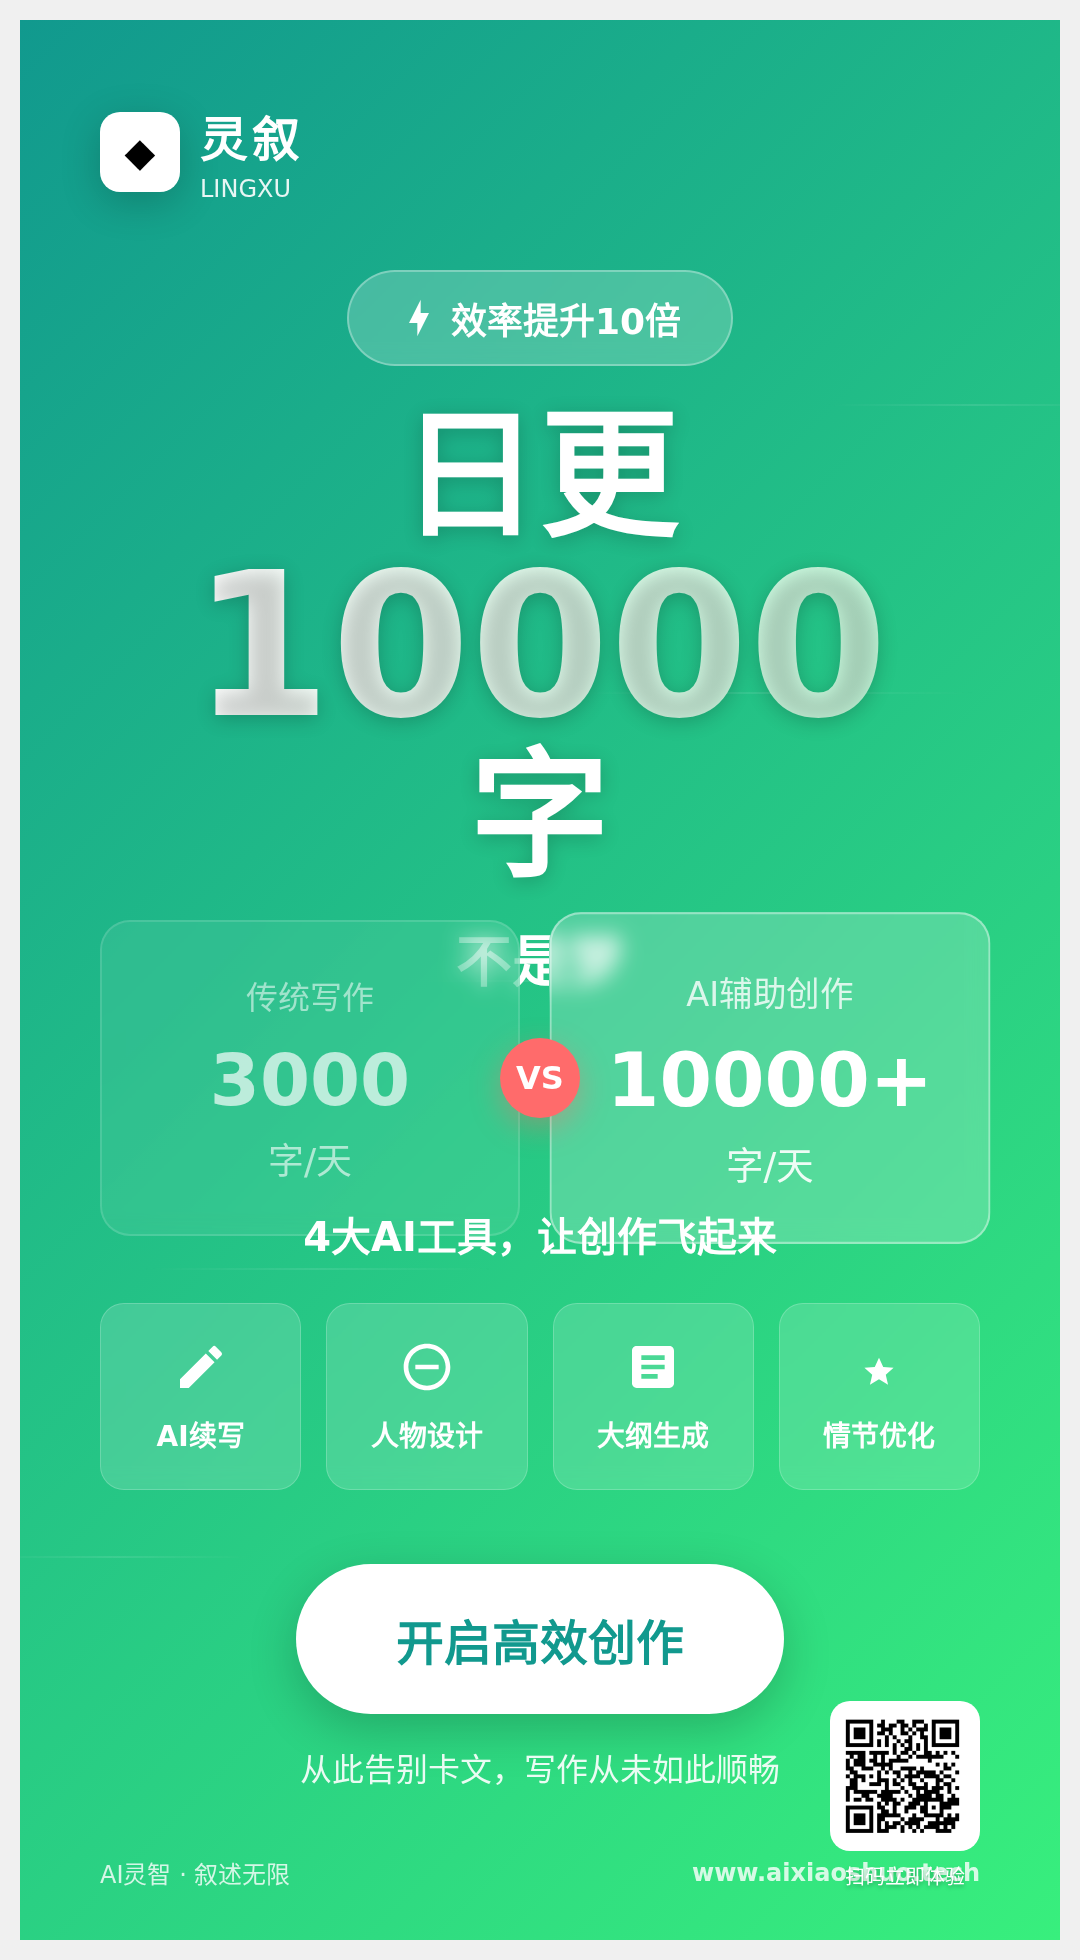
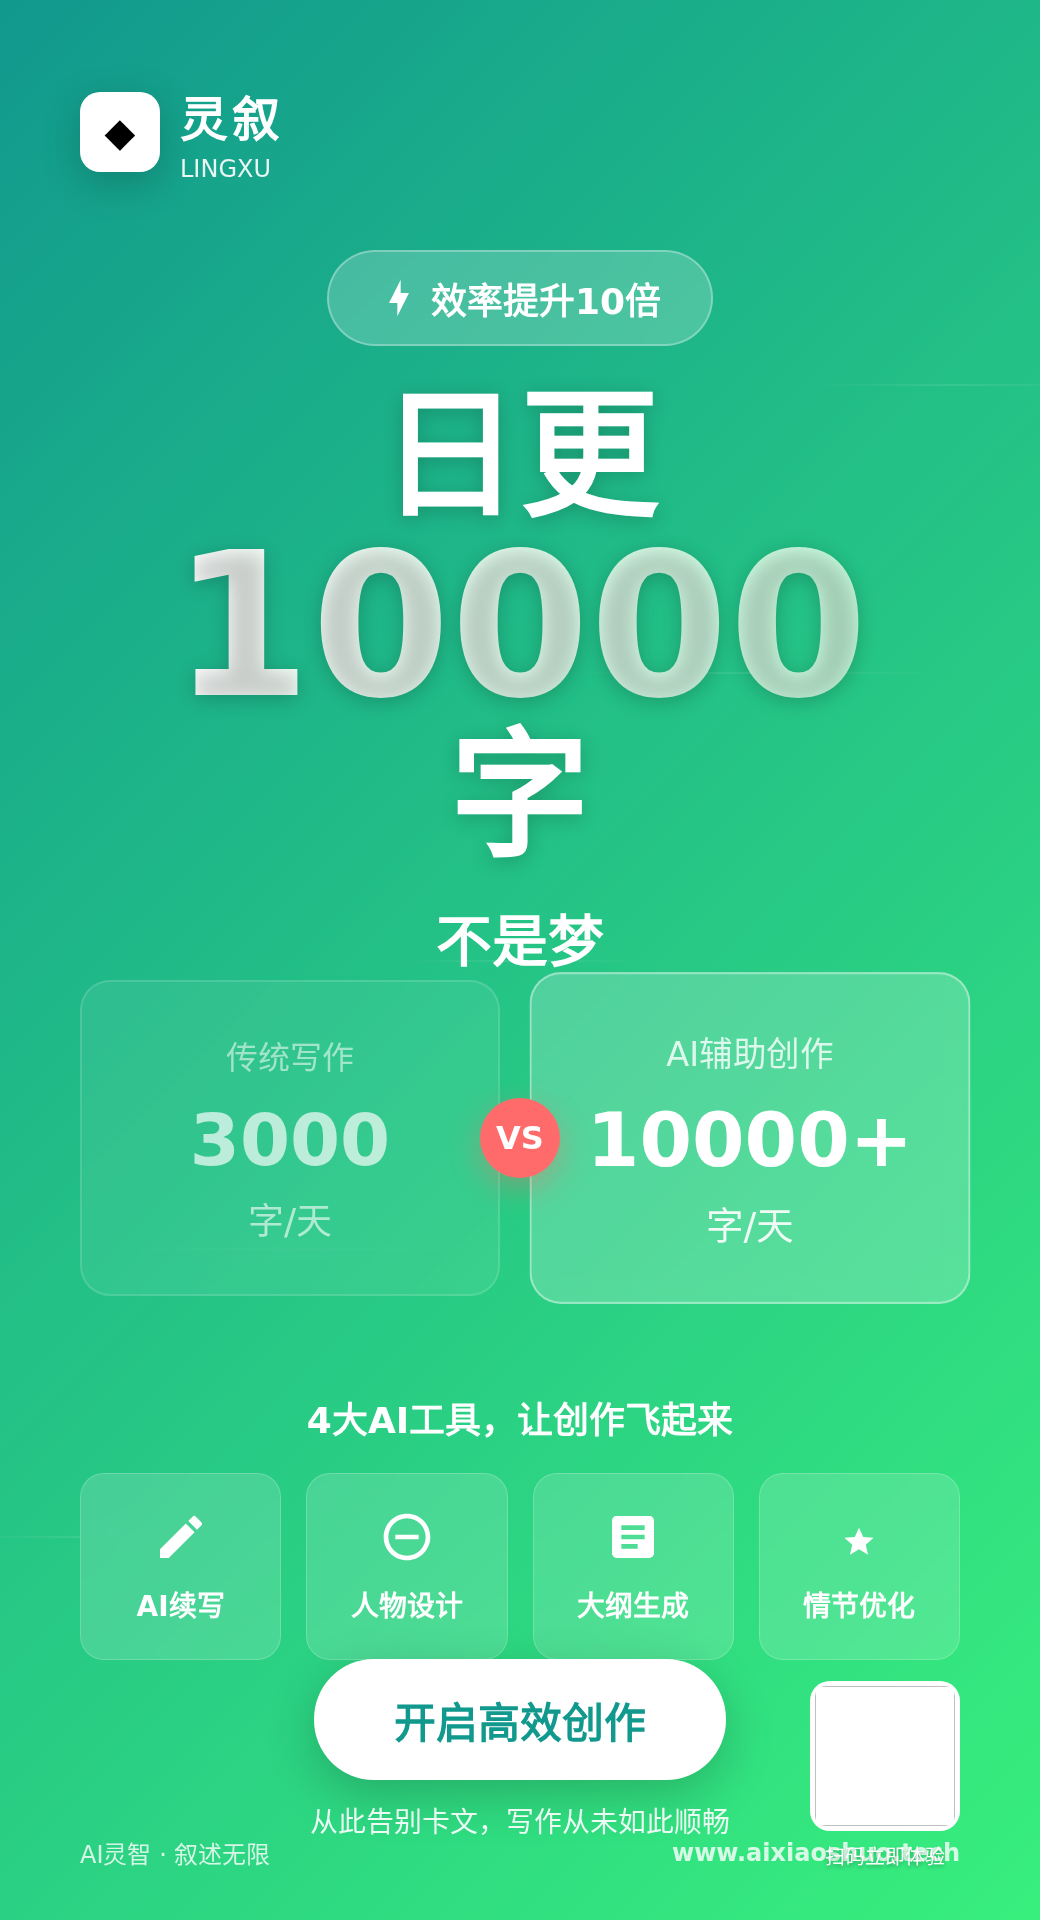
fix(poster): 修复排版重叠问题
- 对比框下移避免遮挡'不是梦'
- 工具卡片区域调整避免与按钮重叠
- CTA按钮位置优化

diff --git a/assets/posters/poster-2-efficiency.html b/assets/posters/poster-2-efficiency.html
@@ -204,16 +204,16 @@
         
         .tools-section {
             position: absolute;
-            bottom: 380px;
+            bottom: 260px;
             left: 80px;
             right: 80px;
         }
         
         .tools-title {
             color: white;
-            font-size: 40px;
+            font-size: 36px;
             text-align: center;
-            margin-bottom: 40px;
+            margin-bottom: 30px;
             font-weight: 600;
         }
         
@@ -248,7 +248,7 @@
         
         .cta-section {
             position: absolute;
-            bottom: 150px;
+            bottom: 80px;
             left: 80px;
             right: 80px;
             text-align: center;
@@ -258,18 +258,18 @@
             display: inline-block;
             background: white;
             color: #11998e;
-            font-size: 48px;
+            font-size: 42px;
             font-weight: 700;
-            padding: 40px 100px;
-            border-radius: 80px;
+            padding: 30px 80px;
+            border-radius: 60px;
             text-decoration: none;
             box-shadow: 0 15px 50px rgba(0,0,0,0.2);
         }
         
         .cta-subtext {
             color: white;
-            font-size: 32px;
-            margin-top: 30px;
+            font-size: 28px;
+            margin-top: 20px;
             opacity: 0.9;
         }
         
